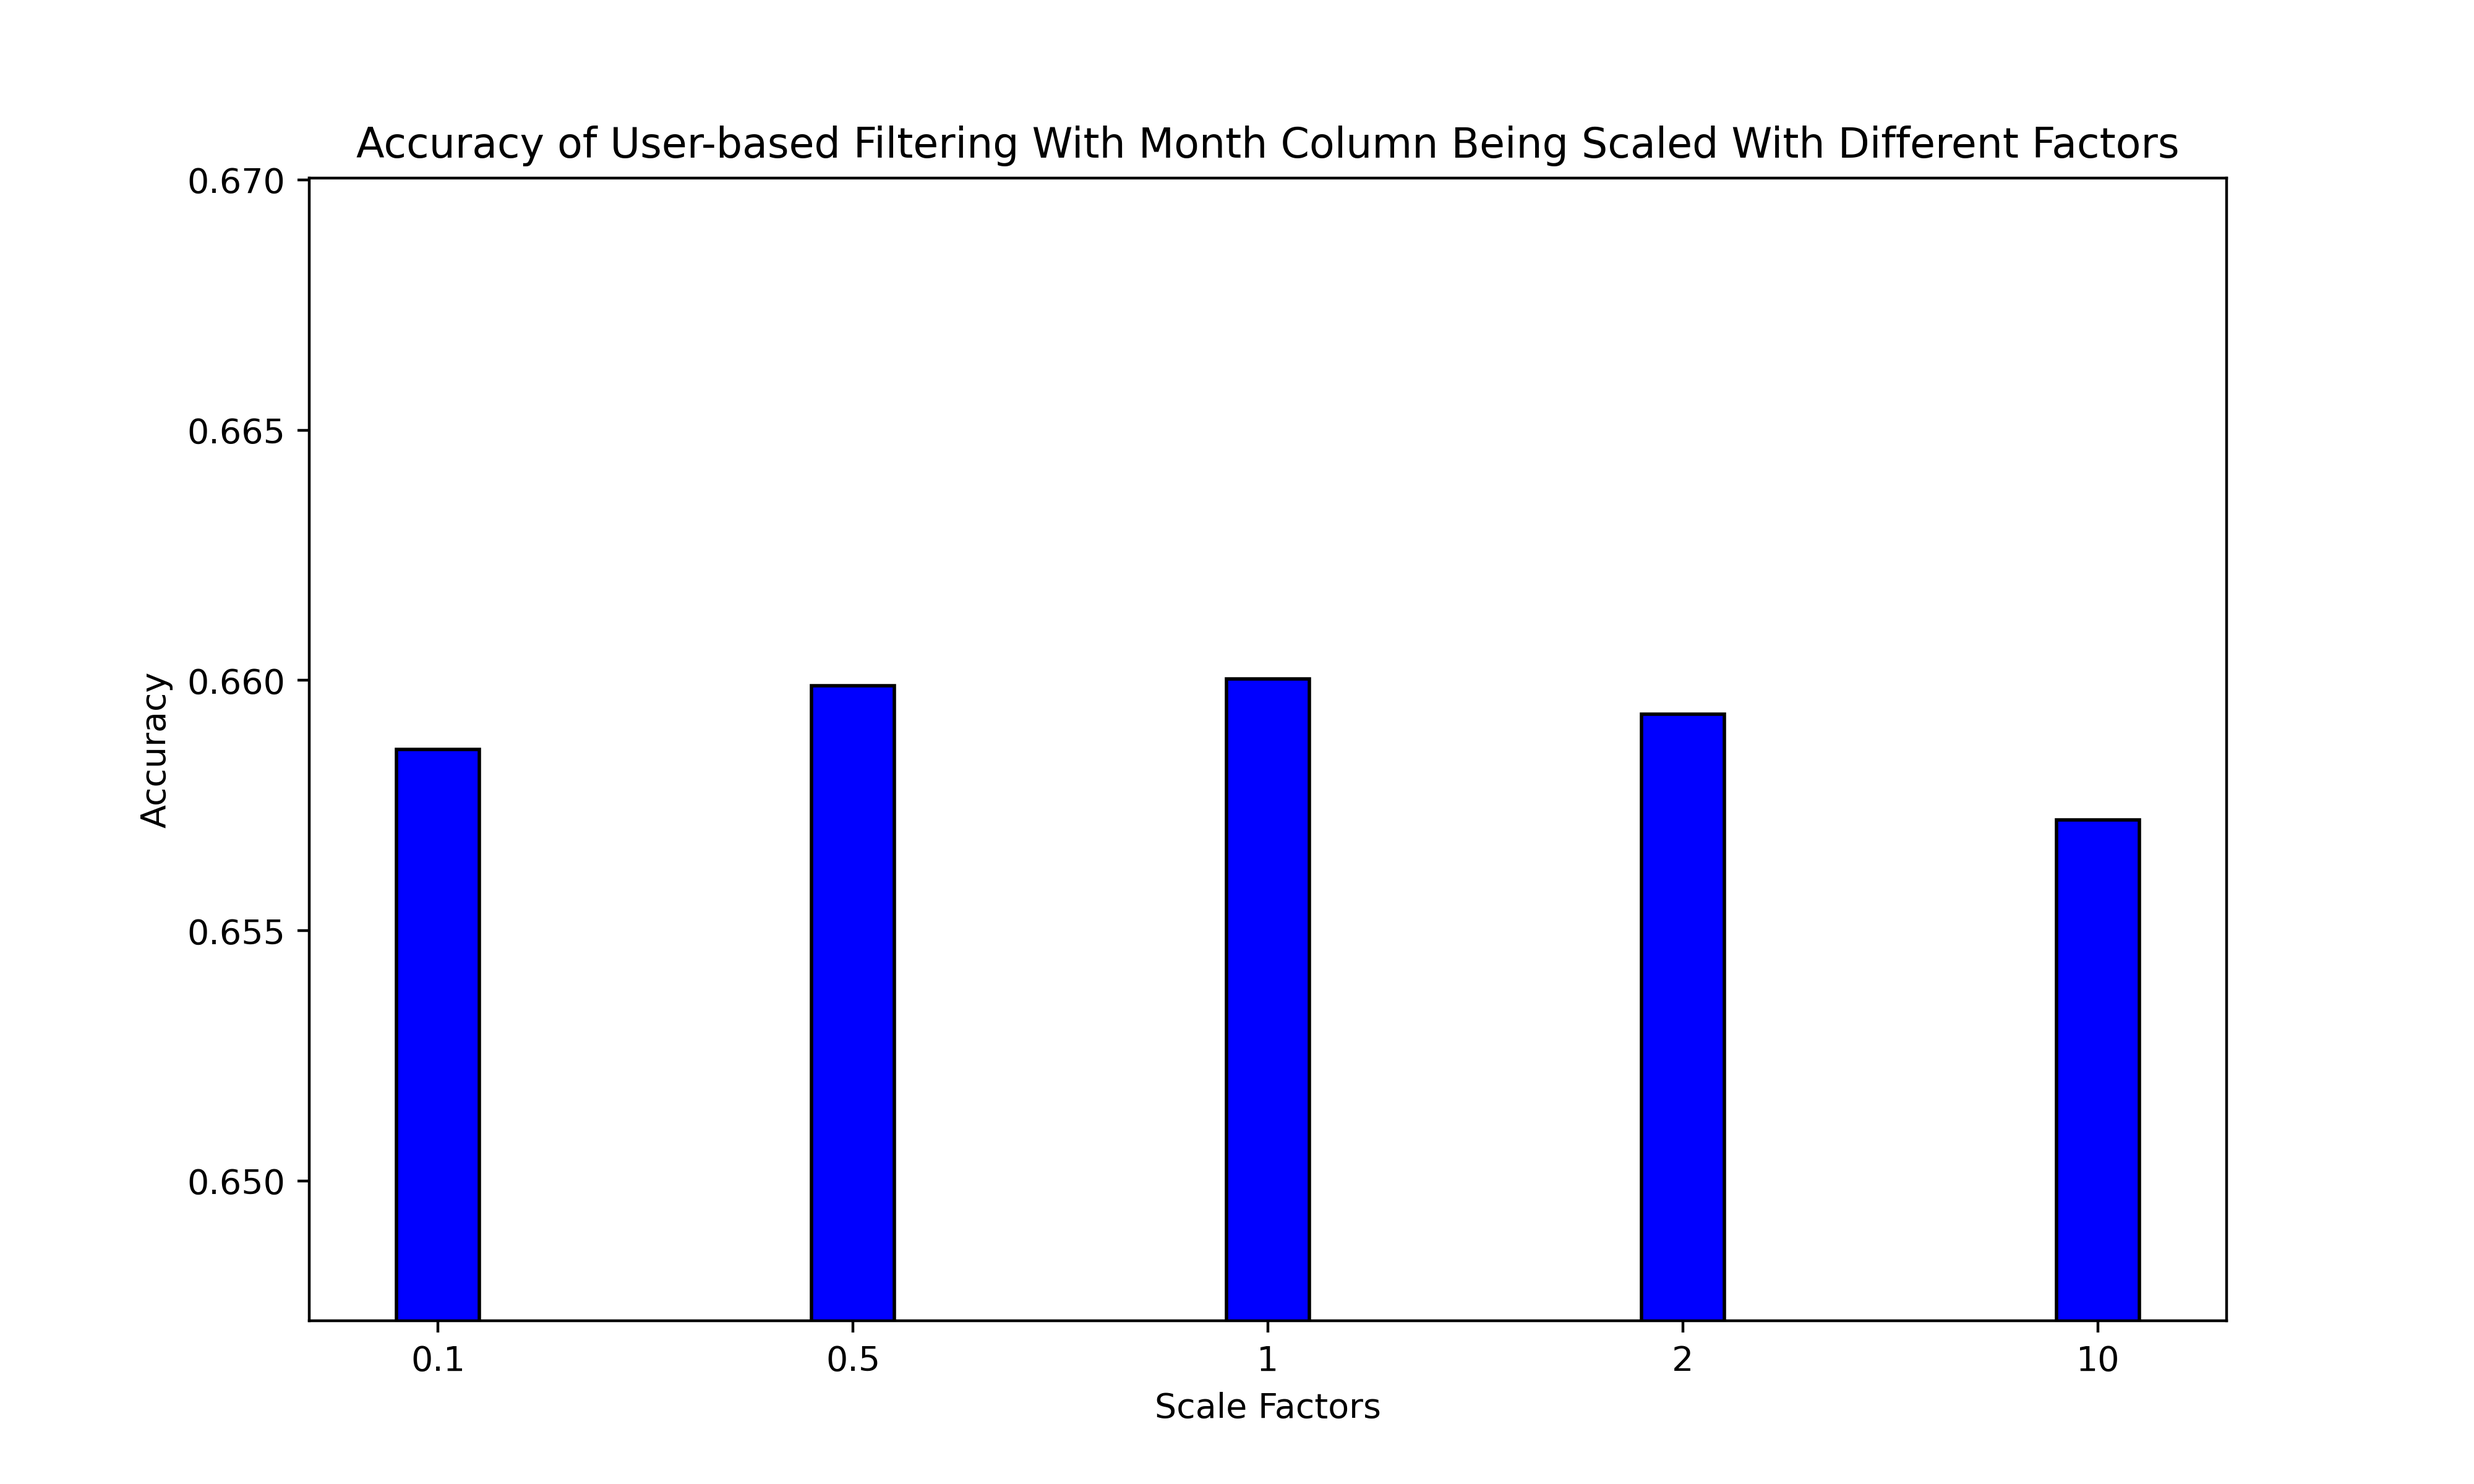
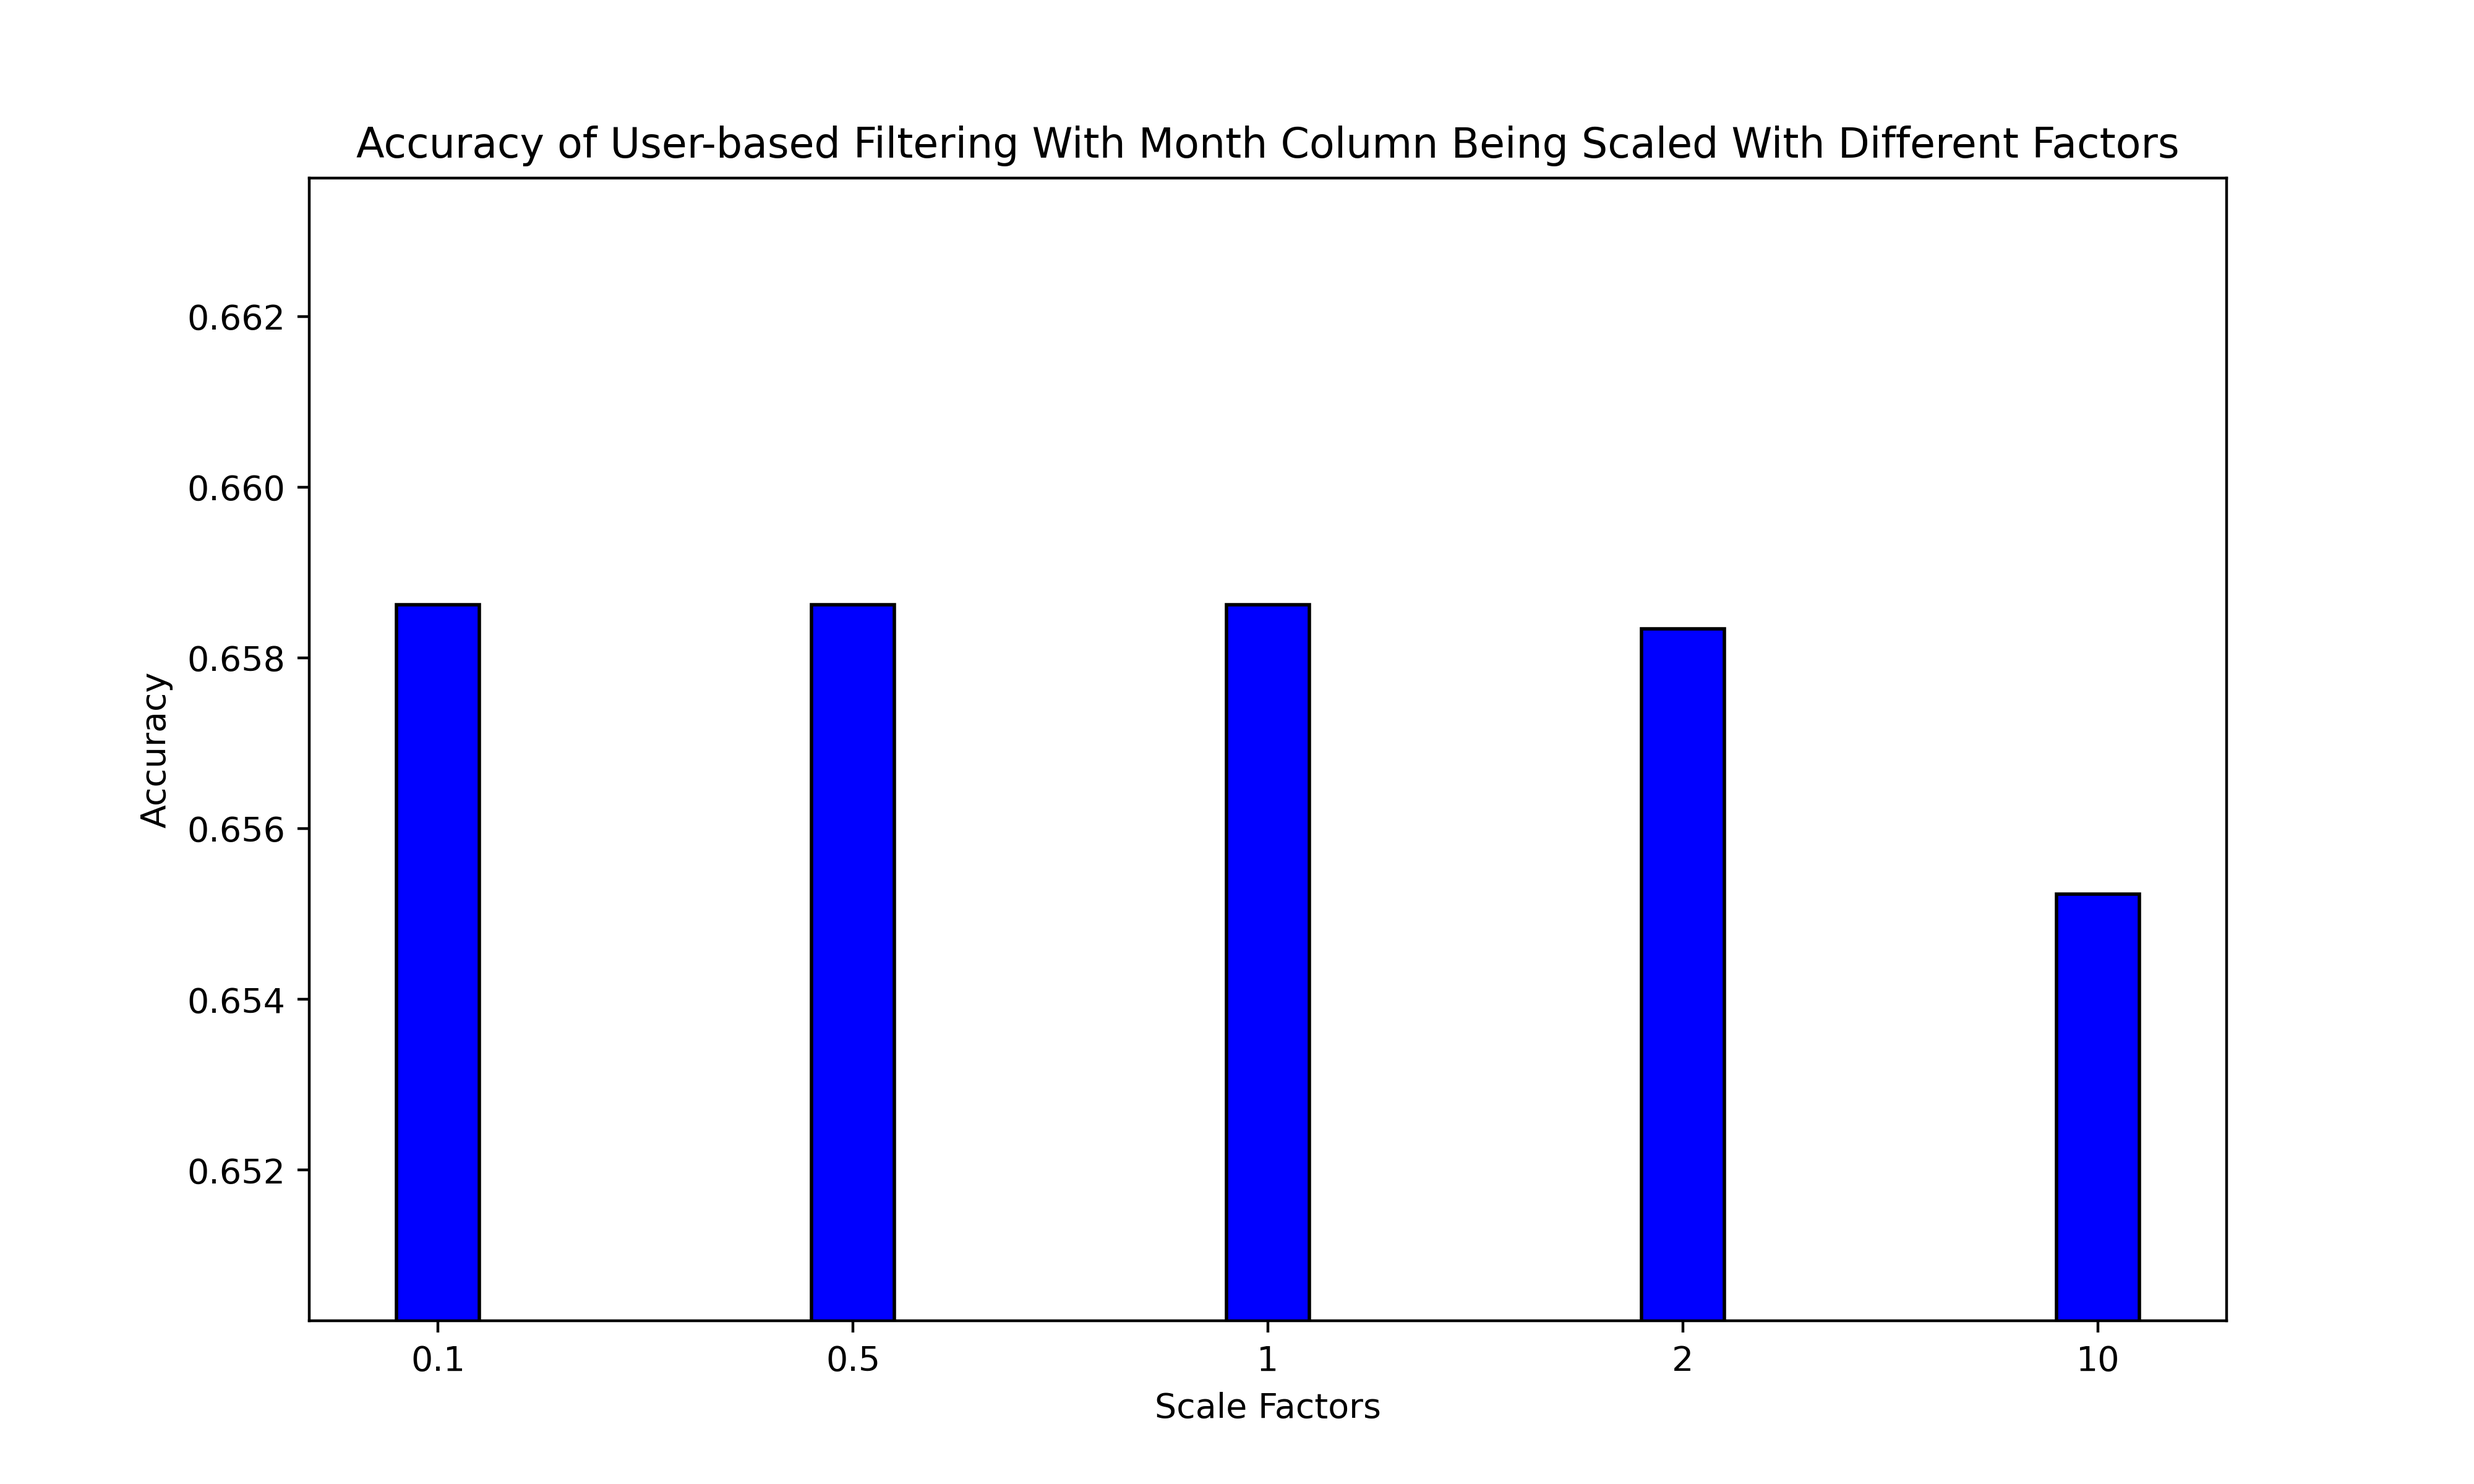
fixed sparse_matrix add column bug

diff --git a/part_b/knn_modified.py b/part_b/knn_modified.py
@@ -124,7 +124,7 @@ def plot_accuracy(scale_factors, valid_acc, title, filename):
         edgecolor="black",
     )  # Adjust the width parameter to make bars smaller
     plt.ylim(
-        [min(valid_acc) - 0.01, max(valid_acc) + 0.01]
+        [min(valid_acc) - 0.005, max(valid_acc) + 0.005]
     )  # Adjust the y-axis range to better visualize differences
     plt.title(title)
     plt.xlabel("Scale Factors")
@@ -139,10 +139,10 @@ def test_year(year_array, sparse_matrix, val_data):
     scale_factors = [0.1, 0.5, 1, 2, 10]
     valid_acc = []
     for scale_factor in scale_factors:
-        sparse_matrix = append_data_as_new_question(
+        new_sparse_matrix = append_data_as_new_question(
             sparse_matrix, scale_array(normalized_year_array, scale_factor)
         )
-        valid_acc.append(knn_impute_by_user(sparse_matrix, val_data, 11))
+        valid_acc.append(knn_impute_by_user(new_sparse_matrix, val_data, 11))
 
     print("Scaled (with normalized year)")
     for i, scale_factor in enumerate(scale_factors):
@@ -163,10 +163,11 @@ def test_month(month_array, sparse_matrix, val_data):
     scale_factors = [0.1, 0.5, 1, 2, 10]
     valid_acc = []
     for scale_factor in scale_factors:
-        sparse_matrix = append_data_as_new_question(
+        # Create a copy of the sparse matrix
+        new_sparse_matrix = append_data_as_new_question(
             sparse_matrix, scale_array(normalized_month_array, scale_factor)
         )
-        valid_acc.append(knn_impute_by_user(sparse_matrix, val_data, 11))
+        valid_acc.append(knn_impute_by_user(new_sparse_matrix, val_data, 11))
 
     print("Scaled (with normalized month)")
     for i, scale_factor in enumerate(scale_factors):
